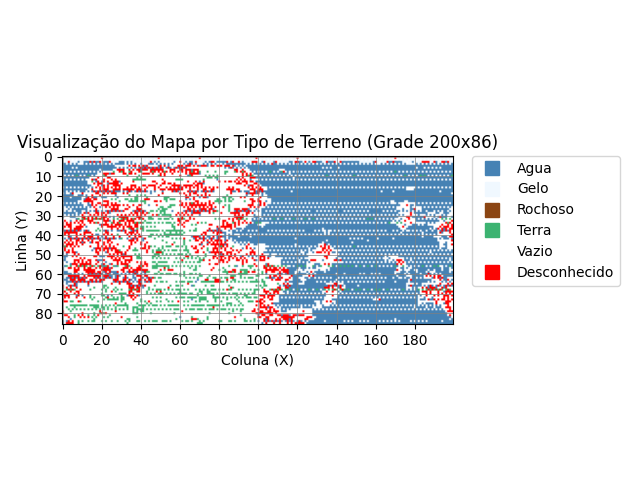
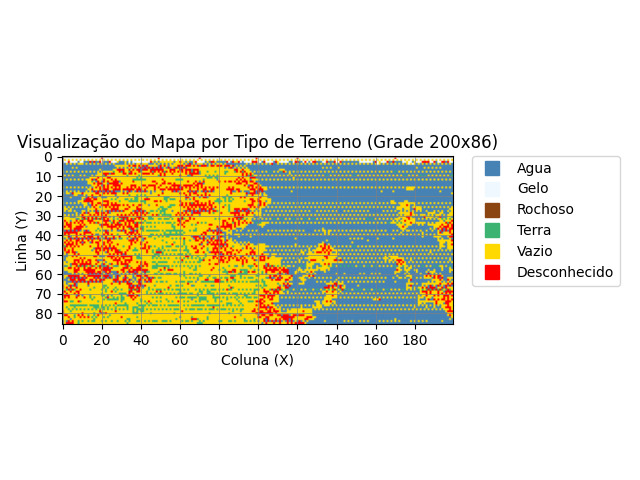
atualizar cor do terreno "vazio" para amarelo e gerar nova visualização do mapa

Changed region(s): [[0.0938, 0.3125, 0.7188, 0.6875], [0.75, 0.5, 0.7812, 0.5625]]

diff --git a/mundo_vivo/map_visualizer.py b/mundo_vivo/map_visualizer.py
@@ -34,7 +34,7 @@ def visualize_map(json_path, output_path):
         "gelo": "#F0F8FF",          # Branco Azulado (Geleira)
         "rochoso": "#8B4513",       # Marrom Sela (Montanha/Rochoso)
         "terra": "#3CB371",         # Verde Médio Primavera (Terra)
-        "vazio": "#FFFFFF",         # Branco (Fora do Mapa)
+        "vazio": "#FFD900",         # Branco (Fora do Mapa)
         "desconhecido": "#FF0000"   # Vermelho (Caso de segurança, não deve ocorrer)
     }
     
